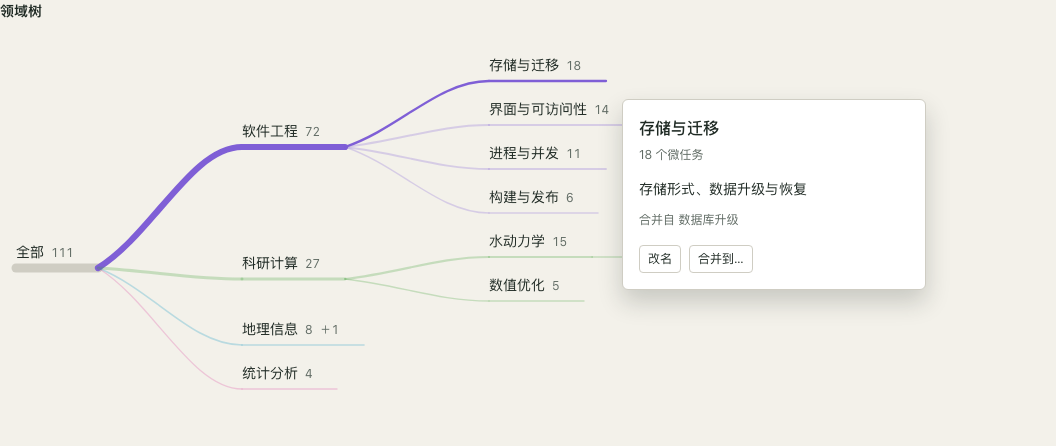
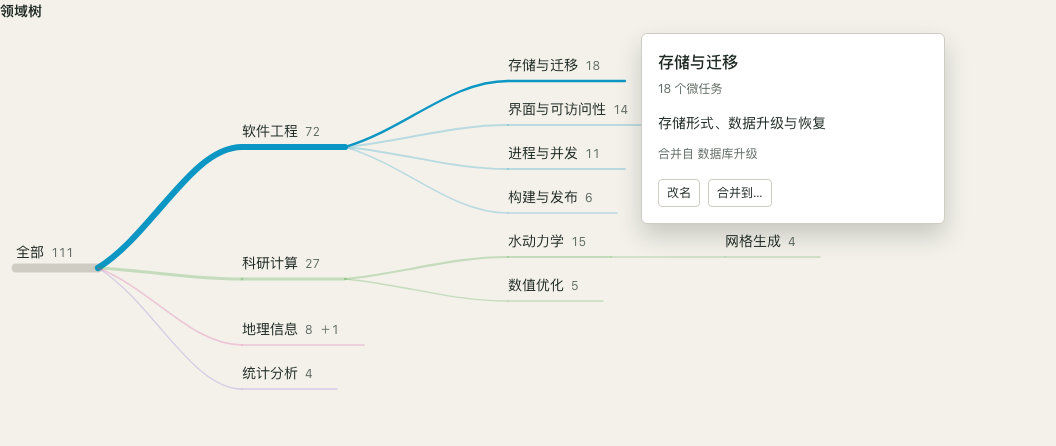
Apply domain palette and align tree columns

diff --git a/docs/design/console-frontend/buddy-redo-maintenance.en.html b/docs/design/console-frontend/buddy-redo-maintenance.en.html
@@ -1,3 +1,3 @@
 <!doctype html>
 <html lang="en" data-theme="dark"><head><meta charset="utf-8"><meta name="viewport" content="width=device-width, initial-scale=1"><title>Buddy · routing</title><link rel="stylesheet" href="base.css"><link rel="stylesheet" href="buddy-redo.css"></head>
-<body class="round3 round4 round5 round6 round7"><header class="bar"><span class="brand">hey-my-buddy</span><nav class="tabs"><span class="tab">Tasks</span><span class="tab on">Buddy</span><span class="tab">Settings</span></nav><span class="clock">2026-11-08 16:30</span></header><header class="page-head"><h1>Buddy</h1><nav class="page-tabs" aria-label="Buddy sections"><a class="" href="buddy-redo-catalog.en.html">Catalog</a><a class="active" href="buddy-redo-routing.en.html">Router</a><a class="" href="buddy-redo-evaluation.en.html">Evaluation</a></nav><div class="head-state spacer minor">4 harnesses<span>Enabled 9 / 40</span></div></header><div class="split"><aside class="rail-list plane-list"><a class="rail-item " href="buddy-redo-routing.en.html"><strong>Routing</strong><div><code>codex / openai / gpt-6.1-sol / high</code></div><div><span class="state"><svg class="mark " viewBox="0 0 12 12" aria-hidden="true"><circle cx="6" cy="6" r="4" fill="currentColor"/></svg>Current</span></div></a><a class="rail-item active" href="buddy-redo-maintenance.en.html"><strong>Maintenance</strong><div><code>claude / anthropic / claude-sonnet-4-6 / high</code></div><div><span class="state"><svg class="mark " viewBox="0 0 12 12" aria-hidden="true"><path d="m1 6 3 3 7-7" fill="none" stroke="currentColor" stroke-width="1.5"/></svg>Latest run · completed</span></div></a><a class="rail-item " href="buddy-redo-profile-plane.en.html"><strong>Profiles</strong><div><code>dsh / deepseek-official / deepseek-v4-flash / max</code></div><div><span class="state"><svg class="mark fail" viewBox="0 0 12 12" aria-hidden="true"><path d="m2 2 8 8M10 2l-8 8" stroke="currentColor" stroke-width="1.5"/></svg>Latest run · failed</span></div></a></aside><main class="detail"><header class="plane-title"><h1>Maintenance</h1><p class="plane-description">Classifies finished micro tasks into domains and task types, and updates buddy evaluations.</p></header><section class="plane-section"><div class="section-heading"><h2>Assigned buddy</h2><span class="spacer"></span><button class="btn " type="button" >Choose buddy</button></div><code>claude / anthropic / claude-sonnet-4-6 / high</code><p class="consequence">Maintenance sends micro task descriptions and outcome facts to the maintenance buddy’s provider.</p></section><section class="plane-section"><div class="section-heading"><h2>Settings</h2><span class="spacer"></span></div><div class="form-row"><label>Maintenance interval</label><div><div class="field-line"><input class="control num" aria-label="Maintenance interval" value="3600" readonly> seconds</div></div></div></section><section class="plane-section"><div class="section-heading"><h2>Records</h2><span class="spacer"></span></div><table class="records visual-records maintenance-records"><thead><tr><th scope="col"></th><th scope="col">Started–ended</th><th scope="col">Trigger</th><th scope="col">Tokens · cached / other input / output</th></tr></thead><tbody><tr><td><span tabindex="0" class="tip-anchor " aria-label="Completed"><svg class="mark " viewBox="0 0 12 12" aria-hidden="true"><path d="m1 6 3 3 7-7" fill="none" stroke="currentColor" stroke-width="1.5"/></svg><span class="tip" role="tooltip">Completed</span></span></td><td><span class="time-range-inline num"><time>2026-11-08 16:00</time><span aria-hidden="true">–</span><time datetime="2026-11-08T16:03">16:03</time></span></td><td>Interval</td><td><div class="usage-plot"><span tabindex="0" class="tip-anchor " aria-label="Input 32,480 (cached 16,000, other input 16,480); output 2,640 tokens."><svg class="quant-bar " width="120" height="8" viewBox="0 0 120 8" aria-hidden="true"><rect class="bar-track" x="0" y="0" width="120" height="8"/><rect class="bar-part tone3" data-value="16000" x="0" y="0" width="52.8474" height="8"/><rect class="bar-part tone1" data-value="16480" x="54.8474" y="0" width="54.4328" height="8"/><rect class="bar-part tone2" data-value="2640" x="111.2802" y="0" width="8.7198" height="8"/></svg><span class="tip" role="tooltip">Input 32,480 (cached 16,000, other input 16,480); output 2,640 tokens.</span></span><span class="num usage-values">16,000 / 16,480 / 2,640</span></div></td></tr><tr><td><span tabindex="0" class="tip-anchor " aria-label="Failed"><svg class="mark fail" viewBox="0 0 12 12" aria-hidden="true"><path d="m2 2 8 8M10 2l-8 8" stroke="currentColor" stroke-width="1.5"/></svg><span class="tip" role="tooltip">Failed</span></span></td><td><span class="time-range-inline num"><time>2026-11-08 14:58</time><span aria-hidden="true">–</span><time datetime="2026-11-08T15:01">15:01</time></span></td><td>Manual</td><td><div class="usage-plot"><span tabindex="0" class="tip-anchor " aria-label="Input 18,240 (cached 8,000, other input 10,240); output 720 tokens."><svg class="quant-bar " width="120" height="8" viewBox="0 0 120 8" aria-hidden="true"><rect class="bar-track" x="0" y="0" width="120" height="8"/><rect class="bar-part tone3" data-value="8000" x="0" y="0" width="25.6471" height="8"/><rect class="bar-part tone1" data-value="10240" x="27.6471" y="0" width="32.8283" height="8"/><rect class="bar-part tone2" data-value="720" x="62.4754" y="0" width="2.3082" height="8"/></svg><span class="tip" role="tooltip">Input 18,240 (cached 8,000, other input 10,240); output 720 tokens.</span></span><span class="num usage-values">8,000 / 10,240 / 720</span></div><p class="record-error">Output failed structure validation; previous version retained.</p></td></tr></tbody></table><section class="branch-section"><div class="subheading branch-heading"><h3>Domain tree</h3></div><div class="branch-stage"><div class="branch-viewport" tabindex="-1" role="tree" aria-label="Domain tree"><div class="branch-canvas"><svg class="branch-drawing" aria-hidden="true"></svg><div class="branch-nodes"></div></div></div><section class="branch-popover" hidden aria-live="polite"><h3></h3><div class="minor pop-count"></div><p class="pop-definition"></p><p class="minor pop-merged"></p><div class="actions"><button class="btn small pop-rename" type="button">Rename</button><button class="btn small pop-merge" type="button">Merge into…</button></div></section></div></section><script id="branch-data" type="application/json">{"nodes": [{"id": "all", "parent": null, "name": "All", "count": 111, "definition": "All classified micro tasks", "mergedFrom": null, "collapsed": false}, {"id": "software", "parent": "all", "name": "Software engineering", "count": 72, "definition": "Design, implementation and verification of software systems", "mergedFrom": null, "collapsed": false}, {"id": "storage", "parent": "software", "name": "Storage & migration", "count": 18, "definition": "Stored forms, data upgrades and recovery", "mergedFrom": "Database upgrade", "collapsed": false}, {"id": "ui", "parent": "software", "name": "UI & accessibility", "count": 14, "definition": "Interaction, information hierarchy and accessibility", "mergedFrom": null, "collapsed": false}, {"id": "process", "parent": "software", "name": "Processes & concurrency", "count": 11, "definition": "Process lifecycle, concurrency and stopping", "mergedFrom": null, "collapsed": false}, {"id": "build", "parent": "software", "name": "Build & release", "count": 6, "definition": "Packaging, installation and release", "mergedFrom": null, "collapsed": false}, {"id": "science", "parent": "all", "name": "Scientific computing", "count": 27, "definition": "Numerical methods and reproducible computational experiments", "mergedFrom": null, "collapsed": false}, {"id": "hydro", "parent": "science", "name": "Hydrodynamics", "count": 15, "definition": "Shallow-water equations, meshes and conservation checks", "mergedFrom": null, "collapsed": false}, {"id": "mesh", "parent": "hydro", "name": "Mesh generation", "count": 4, "definition": "Unstructured mesh generation and quality", "mergedFrom": null, "collapsed": false}, {"id": "optimization", "parent": "science", "name": "Numerical optimization", "count": 5, "definition": "Parameter inversion and optimization algorithms", "mergedFrom": null, "collapsed": false}, {"id": "geography", "parent": "all", "name": "Geographic information", "count": 8, "definition": "Spatial data processing and analysis", "mergedFrom": null, "collapsed": true}, {"id": "spatial", "parent": "geography", "name": "Spatial index", "count": 3, "definition": "Spatial indexes and range queries", "mergedFrom": null, "collapsed": false}, {"id": "statistics", "parent": "all", "name": "Statistical analysis", "count": 4, "definition": "Statistical models and hypothesis testing", "mergedFrom": null, "collapsed": false}], "labels": {"tasks": "micro tasks", "merged": "Merged from", "rename": "Rename", "merge": "Merge into…", "collapse": "Collapse", "expand": "Expand"}}</script><script src="buddy-redo-tree.js" defer></script></section></main></div><footer class="savebar"><span class="minor">Saved</span><div class="actions"><button class="btn " type="button" aria-disabled="true">Discard changes</button><button class="btn " type="button" aria-disabled="true">Save</button></div></footer></body></html>
+<body class="round3 round4 round5 round6 round7 round8"><header class="bar"><span class="brand">hey-my-buddy</span><nav class="tabs"><span class="tab">Tasks</span><span class="tab on">Buddy</span><span class="tab">Settings</span></nav><span class="clock">2026-11-08 16:30</span></header><header class="page-head"><h1>Buddy</h1><nav class="page-tabs" aria-label="Buddy sections"><a class="" href="buddy-redo-catalog.en.html">Catalog</a><a class="active" href="buddy-redo-routing.en.html">Router</a><a class="" href="buddy-redo-evaluation.en.html">Evaluation</a></nav><div class="head-state spacer minor">4 harnesses<span>Enabled 9 / 40</span></div></header><div class="split"><aside class="rail-list plane-list"><a class="rail-item " href="buddy-redo-routing.en.html"><strong>Routing</strong><div><code>codex / openai / gpt-6.1-sol / high</code></div><div><span class="state"><svg class="mark " viewBox="0 0 12 12" aria-hidden="true"><circle cx="6" cy="6" r="4" fill="currentColor"/></svg>Current</span></div></a><a class="rail-item active" href="buddy-redo-maintenance.en.html"><strong>Maintenance</strong><div><code>claude / anthropic / claude-sonnet-4-6 / high</code></div><div><span class="state"><svg class="mark " viewBox="0 0 12 12" aria-hidden="true"><path d="m1 6 3 3 7-7" fill="none" stroke="currentColor" stroke-width="1.5"/></svg>Latest run · completed</span></div></a><a class="rail-item " href="buddy-redo-profile-plane.en.html"><strong>Profiles</strong><div><code>dsh / deepseek-official / deepseek-v4-flash / max</code></div><div><span class="state"><svg class="mark fail" viewBox="0 0 12 12" aria-hidden="true"><path d="m2 2 8 8M10 2l-8 8" stroke="currentColor" stroke-width="1.5"/></svg>Latest run · failed</span></div></a></aside><main class="detail"><header class="plane-title"><h1>Maintenance</h1><p class="plane-description">Classifies finished micro tasks into domains and task types, and updates buddy evaluations.</p></header><section class="plane-section"><div class="section-heading"><h2>Assigned buddy</h2><span class="spacer"></span><button class="btn " type="button" >Choose buddy</button></div><code>claude / anthropic / claude-sonnet-4-6 / high</code><p class="consequence">Maintenance sends micro task descriptions and outcome facts to the maintenance buddy’s provider.</p></section><section class="plane-section"><div class="section-heading"><h2>Settings</h2><span class="spacer"></span></div><div class="form-row"><label>Maintenance interval</label><div><div class="field-line"><input class="control num" aria-label="Maintenance interval" value="3600" readonly> seconds</div></div></div></section><section class="plane-section"><div class="section-heading"><h2>Records</h2><span class="spacer"></span></div><table class="records visual-records maintenance-records"><thead><tr><th scope="col"></th><th scope="col">Started–ended</th><th scope="col">Trigger</th><th scope="col">Tokens · cached / other input / output</th></tr></thead><tbody><tr><td><span tabindex="0" class="tip-anchor " aria-label="Completed"><svg class="mark " viewBox="0 0 12 12" aria-hidden="true"><path d="m1 6 3 3 7-7" fill="none" stroke="currentColor" stroke-width="1.5"/></svg><span class="tip" role="tooltip">Completed</span></span></td><td><span class="time-range-inline num"><time>2026-11-08 16:00</time><span aria-hidden="true">–</span><time datetime="2026-11-08T16:03">16:03</time></span></td><td>Interval</td><td><div class="usage-plot"><span tabindex="0" class="tip-anchor " aria-label="Input 32,480 (cached 16,000, other input 16,480); output 2,640 tokens."><svg class="quant-bar " width="120" height="8" viewBox="0 0 120 8" aria-hidden="true"><rect class="bar-track" x="0" y="0" width="120" height="8"/><rect class="bar-part tone3" data-value="16000" x="0" y="0" width="52.8474" height="8"/><rect class="bar-part tone1" data-value="16480" x="54.8474" y="0" width="54.4328" height="8"/><rect class="bar-part tone2" data-value="2640" x="111.2802" y="0" width="8.7198" height="8"/></svg><span class="tip" role="tooltip">Input 32,480 (cached 16,000, other input 16,480); output 2,640 tokens.</span></span><span class="num usage-values">16,000 / 16,480 / 2,640</span></div></td></tr><tr><td><span tabindex="0" class="tip-anchor " aria-label="Failed"><svg class="mark fail" viewBox="0 0 12 12" aria-hidden="true"><path d="m2 2 8 8M10 2l-8 8" stroke="currentColor" stroke-width="1.5"/></svg><span class="tip" role="tooltip">Failed</span></span></td><td><span class="time-range-inline num"><time>2026-11-08 14:58</time><span aria-hidden="true">–</span><time datetime="2026-11-08T15:01">15:01</time></span></td><td>Manual</td><td><div class="usage-plot"><span tabindex="0" class="tip-anchor " aria-label="Input 18,240 (cached 8,000, other input 10,240); output 720 tokens."><svg class="quant-bar " width="120" height="8" viewBox="0 0 120 8" aria-hidden="true"><rect class="bar-track" x="0" y="0" width="120" height="8"/><rect class="bar-part tone3" data-value="8000" x="0" y="0" width="25.6471" height="8"/><rect class="bar-part tone1" data-value="10240" x="27.6471" y="0" width="32.8283" height="8"/><rect class="bar-part tone2" data-value="720" x="62.4754" y="0" width="2.3082" height="8"/></svg><span class="tip" role="tooltip">Input 18,240 (cached 8,000, other input 10,240); output 720 tokens.</span></span><span class="num usage-values">8,000 / 10,240 / 720</span></div><p class="record-error">Output failed structure validation; previous version retained.</p></td></tr></tbody></table><section class="branch-section"><div class="subheading branch-heading"><h3>Domain tree</h3></div><div class="branch-stage"><div class="branch-viewport" tabindex="-1" role="tree" aria-label="Domain tree"><div class="branch-canvas"><svg class="branch-drawing" aria-hidden="true"></svg><div class="branch-nodes"></div></div></div><section class="branch-popover" hidden aria-live="polite"><h3></h3><div class="minor pop-count"></div><p class="pop-definition"></p><p class="minor pop-merged"></p><div class="actions"><button class="btn small pop-rename" type="button">Rename</button><button class="btn small pop-merge" type="button">Merge into…</button></div></section></div></section><script id="branch-data" type="application/json">{"nodes": [{"id": "all", "parent": null, "name": "All", "count": 111, "definition": "All classified micro tasks", "mergedFrom": null, "collapsed": false}, {"id": "software", "parent": "all", "name": "Software engineering", "count": 72, "definition": "Design, implementation and verification of software systems", "mergedFrom": null, "collapsed": false}, {"id": "storage", "parent": "software", "name": "Storage & migration", "count": 18, "definition": "Stored forms, data upgrades and recovery", "mergedFrom": "Database upgrade", "collapsed": false}, {"id": "ui", "parent": "software", "name": "UI & accessibility", "count": 14, "definition": "Interaction, information hierarchy and accessibility", "mergedFrom": null, "collapsed": false}, {"id": "process", "parent": "software", "name": "Processes & concurrency", "count": 11, "definition": "Process lifecycle, concurrency and stopping", "mergedFrom": null, "collapsed": false}, {"id": "build", "parent": "software", "name": "Build & release", "count": 6, "definition": "Packaging, installation and release", "mergedFrom": null, "collapsed": false}, {"id": "science", "parent": "all", "name": "Scientific computing", "count": 27, "definition": "Numerical methods and reproducible computational experiments", "mergedFrom": null, "collapsed": false}, {"id": "hydro", "parent": "science", "name": "Hydrodynamics", "count": 15, "definition": "Shallow-water equations, meshes and conservation checks", "mergedFrom": null, "collapsed": false}, {"id": "mesh", "parent": "hydro", "name": "Mesh generation", "count": 4, "definition": "Unstructured mesh generation and quality", "mergedFrom": null, "collapsed": false}, {"id": "optimization", "parent": "science", "name": "Numerical optimization", "count": 5, "definition": "Parameter inversion and optimization algorithms", "mergedFrom": null, "collapsed": false}, {"id": "geography", "parent": "all", "name": "Geographic information", "count": 8, "definition": "Spatial data processing and analysis", "mergedFrom": null, "collapsed": true}, {"id": "spatial", "parent": "geography", "name": "Spatial index", "count": 3, "definition": "Spatial indexes and range queries", "mergedFrom": null, "collapsed": false}, {"id": "statistics", "parent": "all", "name": "Statistical analysis", "count": 4, "definition": "Statistical models and hypothesis testing", "mergedFrom": null, "collapsed": false}], "labels": {"tasks": "micro tasks", "merged": "Merged from", "rename": "Rename", "merge": "Merge into…", "collapse": "Collapse", "expand": "Expand"}}</script><script src="buddy-redo-tree.js" defer></script></section></main></div><footer class="savebar"><span class="minor">Saved</span><div class="actions"><button class="btn " type="button" aria-disabled="true">Discard changes</button><button class="btn " type="button" aria-disabled="true">Save</button></div></footer></body></html>

diff --git a/docs/design/console-frontend/buddy-redo-maintenance.html b/docs/design/console-frontend/buddy-redo-maintenance.html
@@ -1,3 +1,3 @@
 <!doctype html>
 <html lang="zh-CN" data-theme="dark"><head><meta charset="utf-8"><meta name="viewport" content="width=device-width, initial-scale=1"><title>Buddy · routing</title><link rel="stylesheet" href="base.css"><link rel="stylesheet" href="buddy-redo.css"></head>
-<body class="round3 round4 round5 round6 round7"><header class="bar"><span class="brand">hey-my-buddy</span><nav class="tabs"><span class="tab">任务</span><span class="tab on">Buddy</span><span class="tab">设置</span></nav><span class="clock">2026-11-08 16:30</span></header><header class="page-head"><h1>Buddy</h1><nav class="page-tabs" aria-label="Buddy 的分区"><a class="" href="buddy-redo-catalog.html">目录</a><a class="active" href="buddy-redo-routing.html">Router</a><a class="" href="buddy-redo-evaluation.html">评价</a></nav><div class="head-state spacer minor">4 个 harness<span>启用 9 / 40</span></div></header><div class="split"><aside class="rail-list plane-list"><a class="rail-item " href="buddy-redo-routing.html"><strong>路由</strong><div><code>codex / openai / gpt-6.1-sol / high</code></div><div><span class="state"><svg class="mark " viewBox="0 0 12 12" aria-hidden="true"><circle cx="6" cy="6" r="4" fill="currentColor"/></svg>当前</span></div></a><a class="rail-item active" href="buddy-redo-maintenance.html"><strong>维护</strong><div><code>claude / anthropic / claude-sonnet-4-6 / high</code></div><div><span class="state"><svg class="mark " viewBox="0 0 12 12" aria-hidden="true"><path d="m1 6 3 3 7-7" fill="none" stroke="currentColor" stroke-width="1.5"/></svg>最近一轮 · 已完成</span></div></a><a class="rail-item " href="buddy-redo-profile-plane.html"><strong>画像</strong><div><code>dsh / deepseek-official / deepseek-v4-flash / max</code></div><div><span class="state"><svg class="mark fail" viewBox="0 0 12 12" aria-hidden="true"><path d="m2 2 8 8M10 2l-8 8" stroke="currentColor" stroke-width="1.5"/></svg>最近一次 · 失败</span></div></a></aside><main class="detail"><header class="plane-title"><h1>维护</h1><p class="plane-description">将已结束的微任务归入领域树与任务类型，更新 buddy 的评价。</p></header><section class="plane-section"><div class="section-heading"><h2>谁担任</h2><span class="spacer"></span><button class="btn " type="button" >选择 buddy</button></div><code>claude / anthropic / claude-sonnet-4-6 / high</code><p class="consequence">维护会把微任务的任务描述与结果事实发给维护 buddy 所在的提供方。</p></section><section class="plane-section"><div class="section-heading"><h2>设置</h2><span class="spacer"></span></div><div class="form-row"><label>维护间隔</label><div><div class="field-line"><input class="control num" aria-label="维护间隔" value="3600" readonly> 秒</div></div></div></section><section class="plane-section"><div class="section-heading"><h2>记录</h2><span class="spacer"></span></div><table class="records visual-records maintenance-records"><thead><tr><th scope="col"></th><th scope="col">开始–结束</th><th scope="col">触发</th><th scope="col">用量 · 缓存 / 其余输入 / 输出</th></tr></thead><tbody><tr><td><span tabindex="0" class="tip-anchor " aria-label="已完成"><svg class="mark " viewBox="0 0 12 12" aria-hidden="true"><path d="m1 6 3 3 7-7" fill="none" stroke="currentColor" stroke-width="1.5"/></svg><span class="tip" role="tooltip">已完成</span></span></td><td><span class="time-range-inline num"><time>2026-11-08 16:00</time><span aria-hidden="true">–</span><time datetime="2026-11-08T16:03">16:03</time></span></td><td>间隔</td><td><div class="usage-plot"><span tabindex="0" class="tip-anchor " aria-label="输入 32,480（含缓存 16,000、其余输入 16,480）；输出 2,640 tokens。"><svg class="quant-bar " width="120" height="8" viewBox="0 0 120 8" aria-hidden="true"><rect class="bar-track" x="0" y="0" width="120" height="8"/><rect class="bar-part tone3" data-value="16000" x="0" y="0" width="52.8474" height="8"/><rect class="bar-part tone1" data-value="16480" x="54.8474" y="0" width="54.4328" height="8"/><rect class="bar-part tone2" data-value="2640" x="111.2802" y="0" width="8.7198" height="8"/></svg><span class="tip" role="tooltip">输入 32,480（含缓存 16,000、其余输入 16,480）；输出 2,640 tokens。</span></span><span class="num usage-values">16,000 / 16,480 / 2,640</span></div></td></tr><tr><td><span tabindex="0" class="tip-anchor " aria-label="失败"><svg class="mark fail" viewBox="0 0 12 12" aria-hidden="true"><path d="m2 2 8 8M10 2l-8 8" stroke="currentColor" stroke-width="1.5"/></svg><span class="tip" role="tooltip">失败</span></span></td><td><span class="time-range-inline num"><time>2026-11-08 14:58</time><span aria-hidden="true">–</span><time datetime="2026-11-08T15:01">15:01</time></span></td><td>手动</td><td><div class="usage-plot"><span tabindex="0" class="tip-anchor " aria-label="输入 18,240（含缓存 8,000、其余输入 10,240）；输出 720 tokens。"><svg class="quant-bar " width="120" height="8" viewBox="0 0 120 8" aria-hidden="true"><rect class="bar-track" x="0" y="0" width="120" height="8"/><rect class="bar-part tone3" data-value="8000" x="0" y="0" width="25.6471" height="8"/><rect class="bar-part tone1" data-value="10240" x="27.6471" y="0" width="32.8283" height="8"/><rect class="bar-part tone2" data-value="720" x="62.4754" y="0" width="2.3082" height="8"/></svg><span class="tip" role="tooltip">输入 18,240（含缓存 8,000、其余输入 10,240）；输出 720 tokens。</span></span><span class="num usage-values">8,000 / 10,240 / 720</span></div><p class="record-error">输出未通过结构核对；保留上一版。</p></td></tr></tbody></table><section class="branch-section"><div class="subheading branch-heading"><h3>领域树</h3></div><div class="branch-stage"><div class="branch-viewport" tabindex="-1" role="tree" aria-label="领域树"><div class="branch-canvas"><svg class="branch-drawing" aria-hidden="true"></svg><div class="branch-nodes"></div></div></div><section class="branch-popover" hidden aria-live="polite"><h3></h3><div class="minor pop-count"></div><p class="pop-definition"></p><p class="minor pop-merged"></p><div class="actions"><button class="btn small pop-rename" type="button">改名</button><button class="btn small pop-merge" type="button">合并到…</button></div></section></div></section><script id="branch-data" type="application/json">{"nodes": [{"id": "all", "parent": null, "name": "全部", "count": 111, "definition": "全部已归类的微任务", "mergedFrom": null, "collapsed": false}, {"id": "software", "parent": "all", "name": "软件工程", "count": 72, "definition": "软件系统的设计、实现与核对", "mergedFrom": null, "collapsed": false}, {"id": "storage", "parent": "software", "name": "存储与迁移", "count": 18, "definition": "存储形式、数据升级与恢复", "mergedFrom": "数据库升级", "collapsed": false}, {"id": "ui", "parent": "software", "name": "界面与可访问性", "count": 14, "definition": "交互界面、信息层级与可访问性", "mergedFrom": null, "collapsed": false}, {"id": "process", "parent": "software", "name": "进程与并发", "count": 11, "definition": "进程的生命周期、并发与停止", "mergedFrom": null, "collapsed": false}, {"id": "build", "parent": "software", "name": "构建与发布", "count": 6, "definition": "打包、安装与发布", "mergedFrom": null, "collapsed": false}, {"id": "science", "parent": "all", "name": "科研计算", "count": 27, "definition": "数值方法与可重复的计算实验", "mergedFrom": null, "collapsed": false}, {"id": "hydro", "parent": "science", "name": "水动力学", "count": 15, "definition": "浅水方程、网格与守恒核对", "mergedFrom": null, "collapsed": false}, {"id": "mesh", "parent": "hydro", "name": "网格生成", "count": 4, "definition": "非结构网格的生成与质量", "mergedFrom": null, "collapsed": false}, {"id": "optimization", "parent": "science", "name": "数值优化", "count": 5, "definition": "参数反演与优化算法", "mergedFrom": null, "collapsed": false}, {"id": "geography", "parent": "all", "name": "地理信息", "count": 8, "definition": "空间数据的处理与分析", "mergedFrom": null, "collapsed": true}, {"id": "spatial", "parent": "geography", "name": "空间索引", "count": 3, "definition": "空间索引与范围查询", "mergedFrom": null, "collapsed": false}, {"id": "statistics", "parent": "all", "name": "统计分析", "count": 4, "definition": "统计模型与假设检验", "mergedFrom": null, "collapsed": false}], "labels": {"tasks": "个微任务", "merged": "合并自", "rename": "改名", "merge": "合并到…", "collapse": "收起", "expand": "展开"}}</script><script src="buddy-redo-tree.js" defer></script></section></main></div><footer class="savebar"><span class="minor">已保存</span><div class="actions"><button class="btn " type="button" aria-disabled="true">放弃修改</button><button class="btn " type="button" aria-disabled="true">保存</button></div></footer></body></html>
+<body class="round3 round4 round5 round6 round7 round8"><header class="bar"><span class="brand">hey-my-buddy</span><nav class="tabs"><span class="tab">任务</span><span class="tab on">Buddy</span><span class="tab">设置</span></nav><span class="clock">2026-11-08 16:30</span></header><header class="page-head"><h1>Buddy</h1><nav class="page-tabs" aria-label="Buddy 的分区"><a class="" href="buddy-redo-catalog.html">目录</a><a class="active" href="buddy-redo-routing.html">Router</a><a class="" href="buddy-redo-evaluation.html">评价</a></nav><div class="head-state spacer minor">4 个 harness<span>启用 9 / 40</span></div></header><div class="split"><aside class="rail-list plane-list"><a class="rail-item " href="buddy-redo-routing.html"><strong>路由</strong><div><code>codex / openai / gpt-6.1-sol / high</code></div><div><span class="state"><svg class="mark " viewBox="0 0 12 12" aria-hidden="true"><circle cx="6" cy="6" r="4" fill="currentColor"/></svg>当前</span></div></a><a class="rail-item active" href="buddy-redo-maintenance.html"><strong>维护</strong><div><code>claude / anthropic / claude-sonnet-4-6 / high</code></div><div><span class="state"><svg class="mark " viewBox="0 0 12 12" aria-hidden="true"><path d="m1 6 3 3 7-7" fill="none" stroke="currentColor" stroke-width="1.5"/></svg>最近一轮 · 已完成</span></div></a><a class="rail-item " href="buddy-redo-profile-plane.html"><strong>画像</strong><div><code>dsh / deepseek-official / deepseek-v4-flash / max</code></div><div><span class="state"><svg class="mark fail" viewBox="0 0 12 12" aria-hidden="true"><path d="m2 2 8 8M10 2l-8 8" stroke="currentColor" stroke-width="1.5"/></svg>最近一次 · 失败</span></div></a></aside><main class="detail"><header class="plane-title"><h1>维护</h1><p class="plane-description">将已结束的微任务归入领域树与任务类型，更新 buddy 的评价。</p></header><section class="plane-section"><div class="section-heading"><h2>谁担任</h2><span class="spacer"></span><button class="btn " type="button" >选择 buddy</button></div><code>claude / anthropic / claude-sonnet-4-6 / high</code><p class="consequence">维护会把微任务的任务描述与结果事实发给维护 buddy 所在的提供方。</p></section><section class="plane-section"><div class="section-heading"><h2>设置</h2><span class="spacer"></span></div><div class="form-row"><label>维护间隔</label><div><div class="field-line"><input class="control num" aria-label="维护间隔" value="3600" readonly> 秒</div></div></div></section><section class="plane-section"><div class="section-heading"><h2>记录</h2><span class="spacer"></span></div><table class="records visual-records maintenance-records"><thead><tr><th scope="col"></th><th scope="col">开始–结束</th><th scope="col">触发</th><th scope="col">用量 · 缓存 / 其余输入 / 输出</th></tr></thead><tbody><tr><td><span tabindex="0" class="tip-anchor " aria-label="已完成"><svg class="mark " viewBox="0 0 12 12" aria-hidden="true"><path d="m1 6 3 3 7-7" fill="none" stroke="currentColor" stroke-width="1.5"/></svg><span class="tip" role="tooltip">已完成</span></span></td><td><span class="time-range-inline num"><time>2026-11-08 16:00</time><span aria-hidden="true">–</span><time datetime="2026-11-08T16:03">16:03</time></span></td><td>间隔</td><td><div class="usage-plot"><span tabindex="0" class="tip-anchor " aria-label="输入 32,480（含缓存 16,000、其余输入 16,480）；输出 2,640 tokens。"><svg class="quant-bar " width="120" height="8" viewBox="0 0 120 8" aria-hidden="true"><rect class="bar-track" x="0" y="0" width="120" height="8"/><rect class="bar-part tone3" data-value="16000" x="0" y="0" width="52.8474" height="8"/><rect class="bar-part tone1" data-value="16480" x="54.8474" y="0" width="54.4328" height="8"/><rect class="bar-part tone2" data-value="2640" x="111.2802" y="0" width="8.7198" height="8"/></svg><span class="tip" role="tooltip">输入 32,480（含缓存 16,000、其余输入 16,480）；输出 2,640 tokens。</span></span><span class="num usage-values">16,000 / 16,480 / 2,640</span></div></td></tr><tr><td><span tabindex="0" class="tip-anchor " aria-label="失败"><svg class="mark fail" viewBox="0 0 12 12" aria-hidden="true"><path d="m2 2 8 8M10 2l-8 8" stroke="currentColor" stroke-width="1.5"/></svg><span class="tip" role="tooltip">失败</span></span></td><td><span class="time-range-inline num"><time>2026-11-08 14:58</time><span aria-hidden="true">–</span><time datetime="2026-11-08T15:01">15:01</time></span></td><td>手动</td><td><div class="usage-plot"><span tabindex="0" class="tip-anchor " aria-label="输入 18,240（含缓存 8,000、其余输入 10,240）；输出 720 tokens。"><svg class="quant-bar " width="120" height="8" viewBox="0 0 120 8" aria-hidden="true"><rect class="bar-track" x="0" y="0" width="120" height="8"/><rect class="bar-part tone3" data-value="8000" x="0" y="0" width="25.6471" height="8"/><rect class="bar-part tone1" data-value="10240" x="27.6471" y="0" width="32.8283" height="8"/><rect class="bar-part tone2" data-value="720" x="62.4754" y="0" width="2.3082" height="8"/></svg><span class="tip" role="tooltip">输入 18,240（含缓存 8,000、其余输入 10,240）；输出 720 tokens。</span></span><span class="num usage-values">8,000 / 10,240 / 720</span></div><p class="record-error">输出未通过结构核对；保留上一版。</p></td></tr></tbody></table><section class="branch-section"><div class="subheading branch-heading"><h3>领域树</h3></div><div class="branch-stage"><div class="branch-viewport" tabindex="-1" role="tree" aria-label="领域树"><div class="branch-canvas"><svg class="branch-drawing" aria-hidden="true"></svg><div class="branch-nodes"></div></div></div><section class="branch-popover" hidden aria-live="polite"><h3></h3><div class="minor pop-count"></div><p class="pop-definition"></p><p class="minor pop-merged"></p><div class="actions"><button class="btn small pop-rename" type="button">改名</button><button class="btn small pop-merge" type="button">合并到…</button></div></section></div></section><script id="branch-data" type="application/json">{"nodes": [{"id": "all", "parent": null, "name": "全部", "count": 111, "definition": "全部已归类的微任务", "mergedFrom": null, "collapsed": false}, {"id": "software", "parent": "all", "name": "软件工程", "count": 72, "definition": "软件系统的设计、实现与核对", "mergedFrom": null, "collapsed": false}, {"id": "storage", "parent": "software", "name": "存储与迁移", "count": 18, "definition": "存储形式、数据升级与恢复", "mergedFrom": "数据库升级", "collapsed": false}, {"id": "ui", "parent": "software", "name": "界面与可访问性", "count": 14, "definition": "交互界面、信息层级与可访问性", "mergedFrom": null, "collapsed": false}, {"id": "process", "parent": "software", "name": "进程与并发", "count": 11, "definition": "进程的生命周期、并发与停止", "mergedFrom": null, "collapsed": false}, {"id": "build", "parent": "software", "name": "构建与发布", "count": 6, "definition": "打包、安装与发布", "mergedFrom": null, "collapsed": false}, {"id": "science", "parent": "all", "name": "科研计算", "count": 27, "definition": "数值方法与可重复的计算实验", "mergedFrom": null, "collapsed": false}, {"id": "hydro", "parent": "science", "name": "水动力学", "count": 15, "definition": "浅水方程、网格与守恒核对", "mergedFrom": null, "collapsed": false}, {"id": "mesh", "parent": "hydro", "name": "网格生成", "count": 4, "definition": "非结构网格的生成与质量", "mergedFrom": null, "collapsed": false}, {"id": "optimization", "parent": "science", "name": "数值优化", "count": 5, "definition": "参数反演与优化算法", "mergedFrom": null, "collapsed": false}, {"id": "geography", "parent": "all", "name": "地理信息", "count": 8, "definition": "空间数据的处理与分析", "mergedFrom": null, "collapsed": true}, {"id": "spatial", "parent": "geography", "name": "空间索引", "count": 3, "definition": "空间索引与范围查询", "mergedFrom": null, "collapsed": false}, {"id": "statistics", "parent": "all", "name": "统计分析", "count": 4, "definition": "统计模型与假设检验", "mergedFrom": null, "collapsed": false}], "labels": {"tasks": "个微任务", "merged": "合并自", "rename": "改名", "merge": "合并到…", "collapse": "收起", "expand": "展开"}}</script><script src="buddy-redo-tree.js" defer></script></section></main></div><footer class="savebar"><span class="minor">已保存</span><div class="actions"><button class="btn " type="button" aria-disabled="true">放弃修改</button><button class="btn " type="button" aria-disabled="true">保存</button></div></footer></body></html>

diff --git a/docs/design/console-frontend/buddy-redo-tree.js b/docs/design/console-frontend/buddy-redo-tree.js
@@ -73,11 +73,17 @@
       return y;
     }
     visit(root);
-    function position(node, x) {
-      const point = result.get(node.id); point.x=x;
-      if(!collapsed.has(node.id)) node.children.forEach(id => position(byId.get(id),x+point.length+point.gap));
+    // A shared column follows the longest segment and widest fan in the preceding layer.
+    const visible = [...byId.values()].filter(node => result.has(node.id));
+    const columns = [16];
+    const lastDepth = Math.max(...visible.map(node => node.depth));
+    for(let depth=0;depth<lastDepth;depth++) {
+      const layer=visible.filter(node=>node.depth===depth);
+      const longest=Math.max(...layer.map(node=>result.get(node.id).length));
+      const gap=Math.max(72,...layer.filter(node=>!collapsed.has(node.id)&&node.children.length).map(node=>result.get(node.id).gap));
+      columns[depth+1]=columns[depth]+longest+gap;
     }
-    position(root,16);
+    for(const node of visible) result.get(node.id).x=columns[node.depth];
     // Hidden descendants converge on the parent's right-hand junction during a fold.
     function hide(node, ancestor) {
       const point = result.get(node.id) ?? {x:ancestor.x+ancestor.length,y:ancestor.y,length:0,gap:72,opacity:0};
@@ -157,20 +163,47 @@
   function placePopover() {
     if(!active || popover.hidden || !current) return;
     const point=current.get(active), width=popover.offsetWidth, height=popover.offsetHeight;
-    popover.style.left=`${Math.max(8,Math.min(point.x+point.length+16-viewport.scrollLeft,stage.clientWidth-width-8))}px`;
-    popover.style.top=`${Math.max(8,Math.min(point.y+18,current.height-height-8))}px`;
+    const baseHeight=viewport.offsetHeight, maxX=Math.max(4,stage.clientWidth-width-4);
+    const clampX=x=>Math.max(4,Math.min(x,maxX));
+    const preferredX=clampX(point.x+point.length+16-viewport.scrollLeft), preferredY=point.y+18;
+    const stageRect=stage.getBoundingClientRect();
+    // Text and counts get clear space too; the floating panel may overlap only lines.
+    const names=[...controls.entries()].filter(([id])=>current.get(id).opacity>0).map(([,button])=>{
+      const r=button.getBoundingClientRect();
+      return {left:r.left-stageRect.left,right:r.right-stageRect.left,top:r.top-stageRect.top,bottom:r.bottom-stageRect.top};
+    }).filter(r=>r.right>0&&r.left<stage.clientWidth);
+    const xs=[...new Set([preferredX,clampX(point.x-width-16-viewport.scrollLeft),4,maxX,clampX((stage.clientWidth-width)/2)])];
+    let best;
+    for(const left of xs) {
+      const blocked=names.filter(r=>left<r.right+4&&left+width>r.left-4).map(r=>({start:Math.max(0,r.top-4),end:r.bottom+4})).sort((a,b)=>a.start-b.start);
+      let freeStart=0;
+      function consider(freeEnd) {
+        if(freeEnd-freeStart<height)return;
+        let top=Math.max(freeStart,Math.min(preferredY,freeEnd-height));
+        if(freeStart<=baseHeight-height)top=Math.min(top,baseHeight-height);
+        else top=freeStart;
+        const extra=Math.max(0,top+height+8-baseHeight),distance=Math.abs(left-preferredX)+Math.abs(top-preferredY);
+        if(!best||extra<best.extra||(extra===best.extra&&distance<best.distance))best={left,top,extra,distance};
+      }
+      for(const interval of blocked){consider(interval.start);freeStart=Math.max(freeStart,interval.end)}
+      consider(Infinity);
+    }
+    popover.style.left=`${best.left}px`;popover.style.top=`${best.top}px`;
+    // Only an open panel borrows height when no in-tree gap can hold it.
+    stage.style.minHeight=`${Math.ceil(Math.max(baseHeight,best.top+height+8))}px`;
   }
   function clear() {
-    active=null;popover.hidden=true;
+    active=null;popover.hidden=true;stage.style.minHeight='';
     for(const e of [...strokes.values(),...links.values()]) e.dataset.dim=false;
   }
   function closeSoon() {
     clearTimeout(timer);timer=setTimeout(()=>{
-      if(popover.matches(':hover')) return;
+      if(stage.matches(':hover')) return;
       const focused=document.activeElement.closest('.branch-node');
       if(focused) activate(focused.dataset.node); else if(!popover.contains(document.activeElement)) clear();
     },140);
   }
+  stage.addEventListener('pointerleave',closeSoon);
   popover.addEventListener('pointerenter',()=>clearTimeout(timer));popover.addEventListener('pointerleave',closeSoon);
   stage.addEventListener('focusout',()=>setTimeout(()=>{if(!stage.contains(document.activeElement))clear()},0));
   popover.addEventListener('keydown',event=>{

diff --git a/docs/design/console-frontend/buddy-redo.css b/docs/design/console-frontend/buddy-redo.css
@@ -241,8 +241,8 @@ body{width:1440px;height:auto;min-height:1000px;overflow:visible;display:block;f
 .round5 .tree:has(li:hover) li.preview-hover:not(:hover)>.actions,.round5 .tree:has(li:focus-within) li.preview-hover:not(:focus-within)>.actions{opacity:0;pointer-events:none}
 .round5 .tree:has(li:hover) li.preview-hover:not(:hover),.round5 .tree:has(li:focus-within) li.preview-hover:not(:focus-within){background:transparent}
 .round5 details:has(.quant-bar)::details-content{overflow:visible}
-/* Round-six branch experiment: four developer-specified domain colours. */
-.round6 .branch-stage{--branch-1:#7f5fd6;--branch-2:#3b9f33;--branch-3:#0c96c3;--branch-4:#dd44a0;position:relative;margin:8px 0 0;isolation:isolate}
+/* Domain branches use timeline families at middle lightness (ADR-029 #13). */
+.round6 .branch-stage{--branch-1:#0c96c3;--branch-2:#3b9f33;--branch-3:#dd44a0;--branch-4:#7f5fd6;position:relative;margin:8px 0 0;isolation:isolate}
 .round6 .branch-viewport{max-width:100%;overflow-x:auto;overflow-y:hidden;padding:0 0 8px}
 .round6 .branch-canvas{position:relative;min-width:100%;width:100%;height:800px}
 .round6 .branch-drawing{position:absolute;inset:0;overflow:visible;pointer-events:none}
